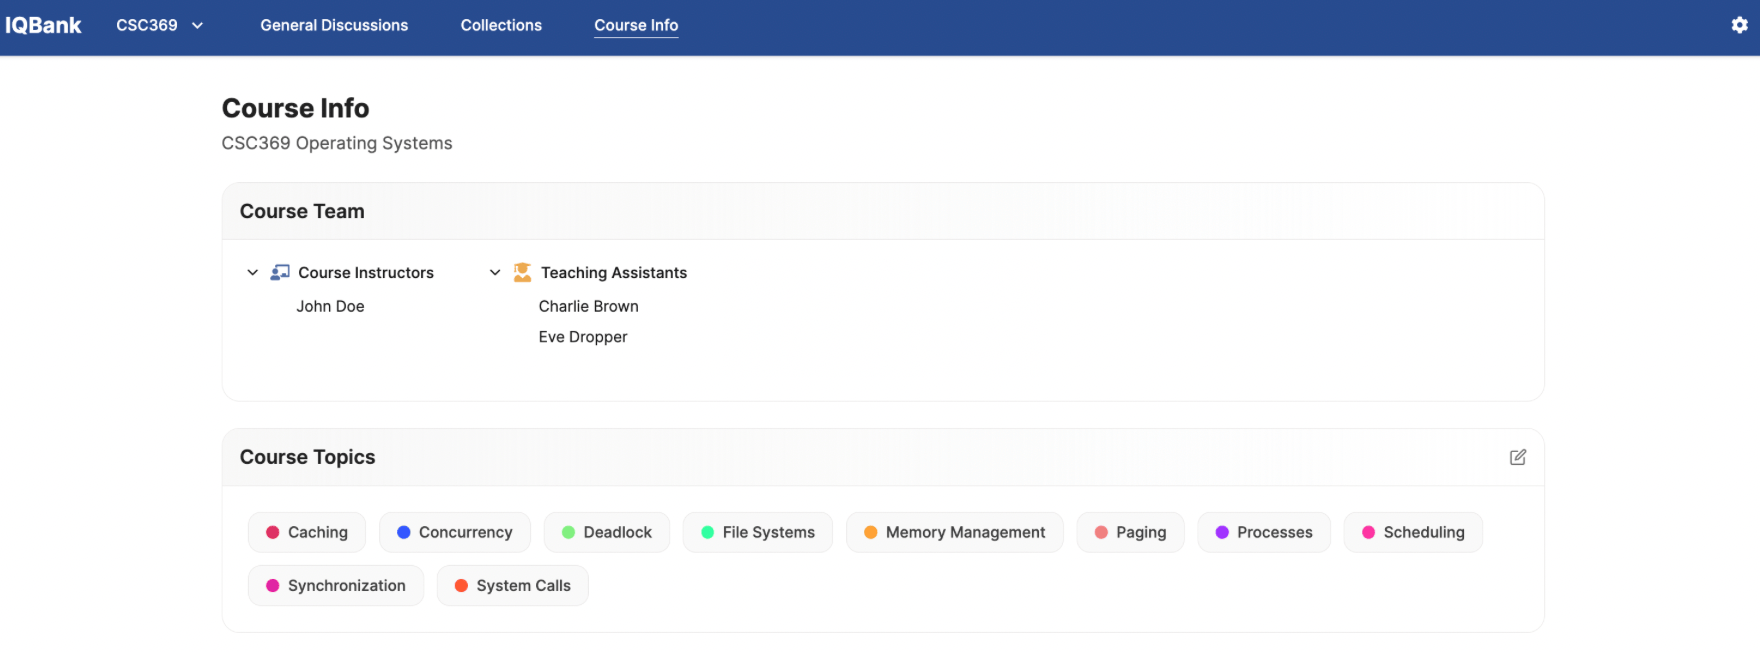
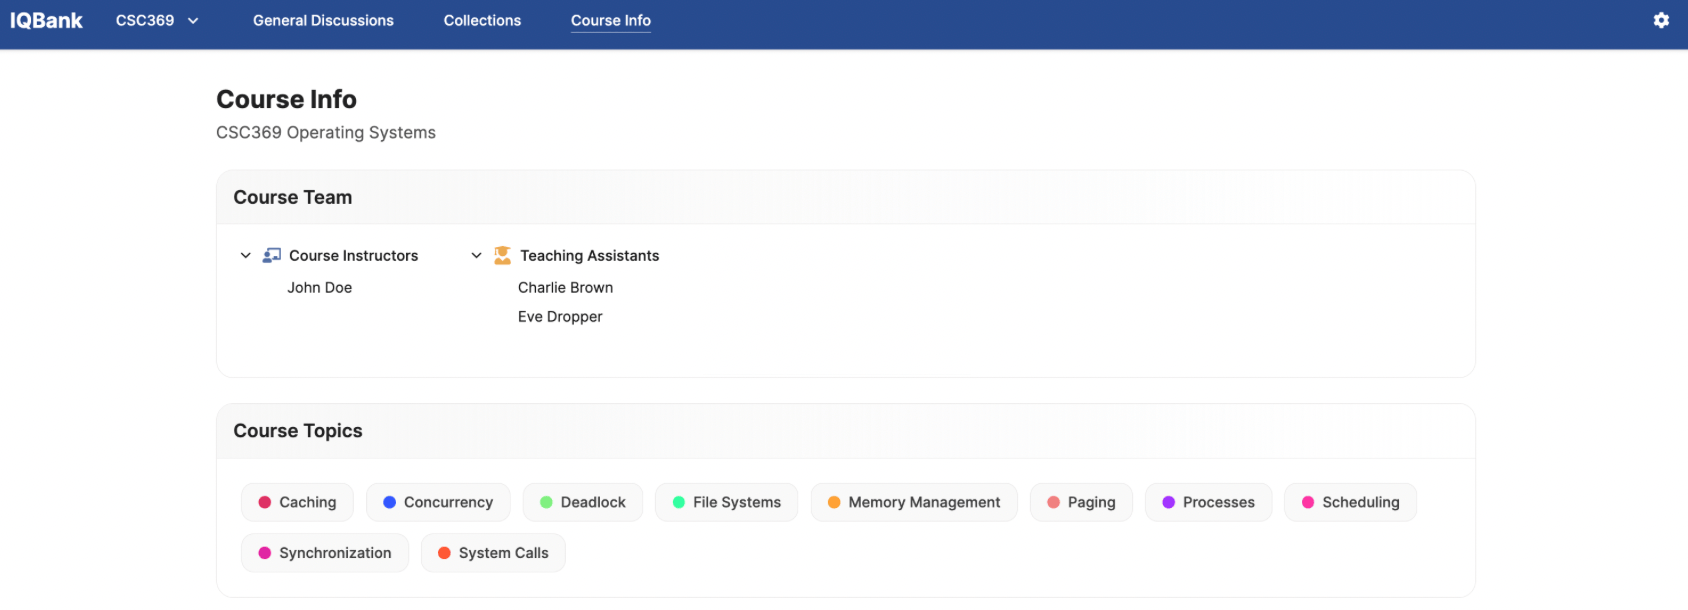
adding instructor guide pages and revamp existing pages (#5)

diff --git a/instructor-guide/manage-student-enrollment.md b/instructor-guide/manage-student-enrollment.md
@@ -1,0 +1,98 @@
+---
+layout: default
+title: Manage User Enrollment
+parent: Instructor Guide
+nav_order: 5
+---
+# Manage User Enrollment
+
+{: .note-title }
+> Note:
+>
+> This feature is only available to course instructors.
+
+## Bulk Enroll Users by CSV 
+
+The **Bulk Student Import** page allows instructors to enroll a list of users in a course using information provided in a CSV file. 
+
+### CSV Format
+
+Click on **Download Template** to download a starter CSV file. Ensure that the completed file meets the following formatting requirements:
+
+- **Required headers**: `email`, `utorid`, `courseRole`, `fromDate`, `toDate`.
+
+- **Course Role**: `courseRole` should be `STUDENT`, `TA`, or `INSTRUCTOR`.
+
+- **Enrollment dates**: `fromDate` and `toDate` are optional and must use the YYYY-MM-DD format (eg: 2026-09-01).
+
+- **Other constraints**: 
+    - Only existing IQBank users can be imported. 
+    - Each user is matched using both `email` and `utorid`. 
+    - Rows that do not match an existing account are reported as errors, and no new accounts are created. If users need accounts created, please see [Accessing IQBank]({{ "/getting-started/accessing-iqbank.html" | relative_url }}) for further details.
+
+![Bulk Student Import CSV Format]({{ "/assets/images/instructor-guide/bulk-student-import-csv-format.png" | relative_url }})
+{: .guide-image .guide-image--medium }
+
+### Upload CSV
+After completing the CSV file, upload it to IQBank. Files must have a **.csv** extension, and be no larger than **5 MB**.
+
+![Upload Bulk Student Import CSV]({{ "/assets/images/instructor-guide/bulk-student-import-csv.png" | relative_url }})
+{: .guide-image .guide-image--medium }
+
+### Upload Results
+After the import runs, you will see a summary of:
+- **Assigned**: Users successfully enrolled
+- **Duplicates**: Number of rows skipped because the user was already enrolled
+- **Errors**: Rows that could not be processed, listed individually
+
+![Upload Bulk Student Import Success]({{ "/assets/images/instructor-guide/bulk-student-import-success.png" | relative_url }})
+{: .guide-image .guide-image--medium }
+
+*Example result after successfully enrolling two existing IQBank users using a properly formatted CSV file*
+{: .guide-caption }
+
+## Individually Enrolling a User
+
+This option allow instructors to enroll a single existing IQBank user in a course.
+
+From the **Management Tools** panel on the **Manage Course page**, click on **Add Student**.
+
+![Add student page]({{ "/assets/images/instructor-guide/add-single-student.png" | relative_url }})
+{: .guide-image .guide-image--medium }
+
+In the **Add User to Course** window, complete the following fields, then click **Add User**: 
+
+- **UTORid** (eg: `doejohn`)
+- **Email address** (eg: `john.doe@mail.utoronto.ca`)
+- **Course role** (one of `STUDENT`, `TA`, or `INSTRUCTOR`)
+- **(Optional) From Date and To Date**: The period (YYYY-MM-DD) the role is active for. Leave them blank for an enrollment with no end date.
+- **Other constraints**:
+    - Both the UTORid and the email must match the same existing IQBank account. If they do not, a message will display: *"No existing user matches that UTORid and email."*
+    - Adding a student to a course does not create an IQBank account for them. Please see [Accessing IQBank]({{ "/getting-started/accessing-iqbank.html" | relative_url }}) for details on obtaining an account.
+
+![Add student panel]({{ "/assets/images/instructor-guide/add-single-student-panel.png" | relative_url }})
+{: .guide-image .guide-image--small }
+
+## Managing Enrolled Users
+
+The **Enrolled Users** table at the bottom of the **Course Management** page lists everyone enrolled in the course (10 users at a time), with columns for:
+
+- Name
+- UTORid
+- Email
+- Role
+- Enrolled (Start date)
+- Ends (End date, if one was set)
+
+Instructors can manage enrolled users using the following actions:
+
+- **Search**: Use the search bar to find a user, and the **Search by** dropdown beside it to choose whether you are searching by Name, UTORid, or Email.
+
+- **Filter**: Use the **Role** dropdown to show only Instructors, TAs, or Students. The default is "All roles".
+
+- **Change a user’s role**: Use the **Role** dropdown in the user’s row to assign them the Instructor, TA, or Student role.
+
+- **Unenroll a user**: Click on the (x) button at the far right of a user's row to unenroll them from the course. Instructors will be asked to confirm before the change takes effect.
+
+![Manage Enrolled Users]({{ "/assets/images/instructor-guide/manage-enrolled-users.png" | relative_url }})
+{: .guide-image .guide-image--medium }

diff --git a/instructor-guide/upload-course-collections.md b/instructor-guide/upload-course-collections.md
@@ -1,0 +1,69 @@
+---
+layout: default
+title: Upload New Course Collection
+parent: Instructor Guide
+nav_order: 4
+---
+# Upload New Course Collection
+
+{: .note-title }
+> Note:
+>
+> This feature is only available to course instructors.
+
+## Upload collection
+
+Create a new course collection by uploading a PDF file, then fill out the required **Title**, **Type**, **Year**, and **Term** fields. 
+
+Max file size: **5 MB**.
+
+![Upload Collection]({{ "/assets/images/instructor-guide/upload-collection.png" | relative_url }})
+{: .guide-image .guide-image--medium }
+
+*Upload collection PDF*
+{: .guide-caption }
+
+## Create Questions
+
+After uploading the PDF and entering the collection details, press the **Continue to Create Questions** button.
+
+The uploaded PDF would then appears on the left, while the **Question List** appears on the right. Use this page to indicate the questions and subquestions contained in the PDF.
+
+1. In the **Question List** panel, select **Add Question** under **Actions**. Use the browser cursor to select the area of the PDF containing the question. When finished, select **Finish**.
+
+    Optionally, assign one or more topic tags to categorize the question.
+
+    ![Before adding Question 1 to the new collection]({{ "/assets/images/instructor-guide/before-add-collection-question.png" | relative_url }})
+    {: .guide-image .guide-image--medium }
+
+    ![While adding Question 1 to the new collection]({{ "/assets/images/instructor-guide/during-add-collection-question.png" | relative_url }})
+    {: .guide-image .guide-image--medium }
+
+2. If the question contains multiple parts, select the **Add Subquestion**. For each subquestion, repeat step 1.
+
+    ![Adding question 1 subquestion to new collection]({{ "/assets/images/instructor-guide/add-collection-subquestion.png" | relative_url }})
+    {: .guide-image .guide-image--medium }
+
+3. Repeat steps 1 and 2 for each remaining question in the PDF.
+
+    Created questions appear in the **Question List**. If necessary, drag and drop the entries to change their order.
+
+    After identifying and ordering all questions, select **Continue to Review**.
+
+    ![Adding more questions to new collection]({{ "/assets/images/instructor-guide/final-add-collection-question.png" | relative_url }})
+    {: .guide-image .guide-image--medium }
+
+## Review Creation
+Here, the details of the uploaded collection can be reviewed. 
+
+If further edits need to be made, press the **Back to Edit** button. 
+
+Otherwise, press the **Finalize Questions** button to upload the new course collection.
+
+When completed, a success dialog will appear. The new collection would now be displayed in the course's **Collections** page.
+
+![Review uploaded collection]({{ "/assets/images/instructor-guide/review-collection.png" | relative_url }})
+{: .guide-image .guide-image--medium }
+
+![Upload collection success]({{ "/assets/images/instructor-guide/upload-collection-success.png" | relative_url }})
+{: .guide-image .guide-image--small }

diff --git a/instructor-guide/using-manage-course-page.md b/instructor-guide/using-manage-course-page.md
@@ -1,0 +1,39 @@
+---
+layout: default
+title: Using the Manage Course Page
+parent: Instructor Guide
+nav_order: 3
+has_children: true
+---
+
+# Using the Manage Course Page
+
+{: .note-title }
+> Note:
+>
+> The **Manage Course** page is visible only to course instructors.
+
+The **Manage Course** page allows instructors to monitor student engagement, create collections, and manage course enrollment.
+
+Course topics are managed separately through the **Course Info** page. See [Managing Course Topics]({{ "/instructor-guide/manage-course-topics.html" | relative_url }}).
+
+## Opening the Manage Course Page
+
+Open the page using either of the following options:
+
+- Select **Manage Course** in the course header.
+- Select **Manage Course** in the upper-right corner of the **Course Info** page.
+
+![Manage Course page]({{ "/assets/images/instructor-guide/manage-course.png" | relative_url }})
+{: .guide-image .guide-image--medium }
+
+*The **Manage Course** page*
+{: .guide-caption }
+
+## Management Tools
+
+Use the **Management Tools** panel to access the following features:
+
+- [Student Engagement]({{ "/instructor-guide/view-student-engagement.html" | relative_url }}): Monitor student activity and engagement.
+- [Upload Collections]({{ "/instructor-guide/upload-course-collections.html" | relative_url }}): Upload and configure collections.
+- [Managing User Enrollment]({{ "/instructor-guide/managing-student-enrollment.html" | relative_url }}): Bulk or individually enroll users.

diff --git a/using-iqbank/course-info.md b/using-iqbank/course-info.md
@@ -14,8 +14,14 @@ The Course Info page shows you who is teaching the course and what topics its co
 
 ### Course Team
 
-The Course Team panel lists the course's instructors and teaching assistants. Each group displays up to 10 members at a time. If a group has more than 10 members, a "Load more" option appears under that group. If both groups have no members, the panel reads *"No staff members assigned to this course"*.
+The Course Team panel lists the course's instructors and teaching assistants. Each group displays up to 10 members at a time. 
+
+If a group has more than 10 members, a *"Load more"* option appears under that group. 
+
+If both groups have no members, the panel reads *"No staff members assigned to this course"*.
 
 ### Course Topics
 
-The Course Topics panel lists the topic tags used to categorize collection questions in the course, such as the tags you can filter by on the [course homepage]({{ "/using-iqbank/#viewing-course-home-page" | relative_url }}). If no topics have been created yet, the panel reads *"No topics created for this course"*.
+The Course Topics panel lists the topic tags used to categorize collection questions in the course, such as the tags you can filter by on the [course homepage]({{ "/using-iqbank/course-homepage.html" | relative_url }}).
+
+If no topics have been created yet, the panel reads *"No topics created for this course"*.

diff --git a/instructor-guide/manage-course-topics.md b/instructor-guide/manage-course-topics.md
@@ -1,0 +1,30 @@
+---
+layout: default
+title: Manage Course Topics
+parent: Instructor Guide
+nav_order: 2
+---
+# Manage Course Topics
+
+{: .note-title }
+> Note:
+>
+> This feature is available to course instructors and TAs.
+
+To find the **Course Info** page, please see [Using Course Info]({{ "/using-iqbank/course-info.html" | relative_url }}).
+
+On that page, a pencil icon will appears beside the Course Topics heading. Click it to enter edit mode, where you can:
+
+- **Add a topic**: Use the **+ Add a new topic** button that appears at the bottom of the panel while in edit mode. Then, input a topic name (name must be between **2 and 50 characters**) and a colour.
+
+- **Delete a topic**: Delete a topic using the **(x) icon** next to the tag. IQBank will ask to confirm deletion.
+
+- **Rename a topic**: Click on the topic name and type in a new one. Topic names must adhere to the same length limit as in **Add a topic**. IQBank will ask to confirm renames.
+
+Click the **checkmark icon** to finish editing.
+
+![Manage Course Topic Picture]({{ "/assets/images/instructor-guide/course-topics.png" | relative_url }})
+{: .guide-image .guide-image--medium }
+
+*Course Topic Edit panel with all available actions annotated*
+{: .guide-caption }

diff --git a/instructor-guide/view-student-engagement.md b/instructor-guide/view-student-engagement.md
@@ -1,0 +1,23 @@
+---
+layout: default
+title: View Student Engagement
+parent: Instructor Guide
+nav_order: 3
+---
+
+# View Student Engagement
+
+{: .note-title }
+> Note:
+>
+> This feature is only available to course instructors.
+
+The **Student Engagement** page opens a dashboard for monitoring student activity and engagement in the course.
+
+Students can be filtered by Engagement Score (default selection), by Likes, or by Endorsements. For more information about endorsements, see [Endorsing Student Contributions]({{ "/instructor-guide/endorse-student-contributions.html" | relative_url }}).
+
+![Student Engagement page]({{ "/assets/images/instructor-guide/student-engagement.png" | relative_url }})
+{: .guide-image .guide-image--medium }
+
+*The **Student Engagement** page, with the sort menu open to display available options*
+{: .guide-caption }

diff --git a/instructor-guide/endorse-student-contributions.md b/instructor-guide/endorse-student-contributions.md
@@ -1,0 +1,24 @@
+---
+layout: default
+title: Endorse Student Contributions
+parent: Instructor Guide
+nav_order: 6
+has_children: true
+---
+
+# Endorse Student Contributions
+
+{: .note-title }
+> Note:
+>
+> This feature is only available to course instructors.
+
+Instructors can like user responses in the **Collections** or **General Discussions** page to endorse content that they consider useful or helpful to other students. 
+
+Once an instructor likes a user's response, it would display an **“Instructor Endorsed”** label.
+
+![Instructor Endorsed Response]({{ "/assets/images/instructor-guide/instructor-endorsed-response.png" | relative_url }})
+{: .guide-image .guide-image--large }
+
+*A thread with the **Instructor Endorsed** message*
+{: .guide-caption }

diff --git a/faq/index.md b/faq/index.md
@@ -5,7 +5,7 @@ nav_order: 6
 # Frequently Asked Questions (FAQ)
 ### Q: *"As a student, I don't see solutions for a particular course collection (eg: CSC369 2025 Fall Exam). What should I do?*
 
-A: It hasn't been uploaded onto IQBank, please contact your course instructor.
+A: It has not been uploaded onto IQBank, please contact your course instructor.
 
 ### Q: *As a student or instructor, I have an IQBank account but forgotten my password! What can I do?*
 

diff --git a/account-management/update-profile-pic.md b/account-management/update-profile-pic.md
@@ -8,7 +8,6 @@ nav_order: 2
 # Updating Profile Picture
 Use the **Update Avatar** panel to upload a new profile picture. Remember to choose a school-appropriate image that contains no offensive or harmful content.
 
-{: .warning }
 Images must not exceed **5 MB** in size. 
 
 ![Update profile picture]({{ "/assets/images/account-management/update-profile-picture.png" | relative_url }})

diff --git a/instructor-guide/index.md b/instructor-guide/index.md
@@ -1,6 +1,8 @@
 ---
 layout: default
+title: Instructor Guide
 nav_order: 5
+has_children: true
 ---
 # Instructor Guide
-Place to talk about Instructor specific site features
+This page outlines site features and actions for course instructors and teaching assistants (TAs).
